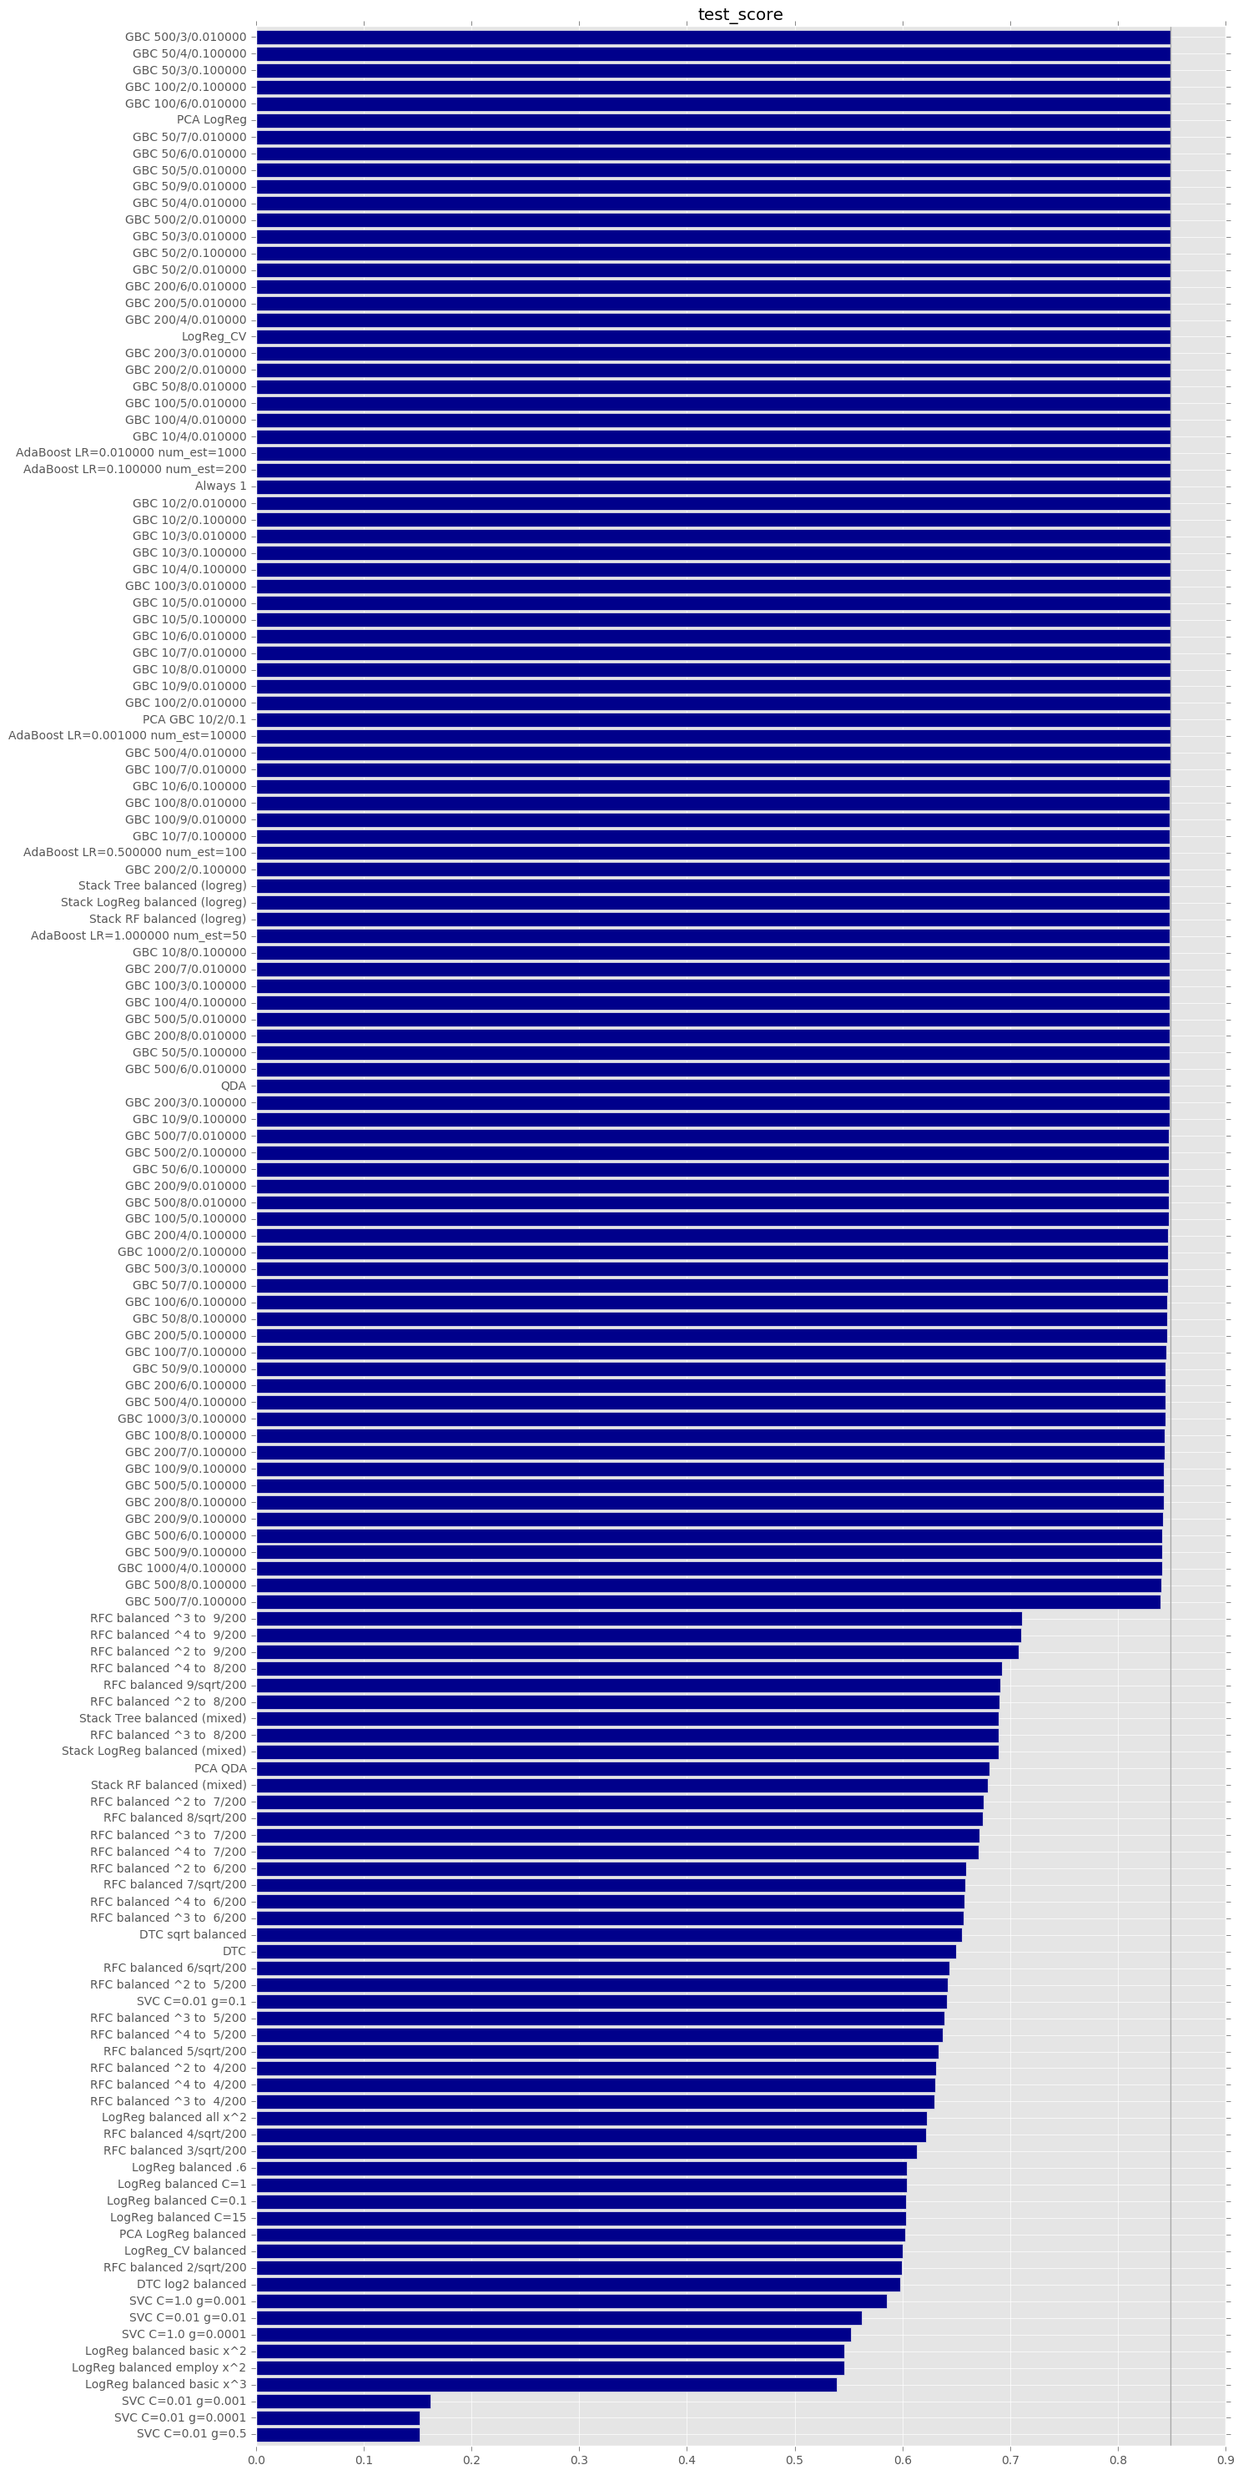
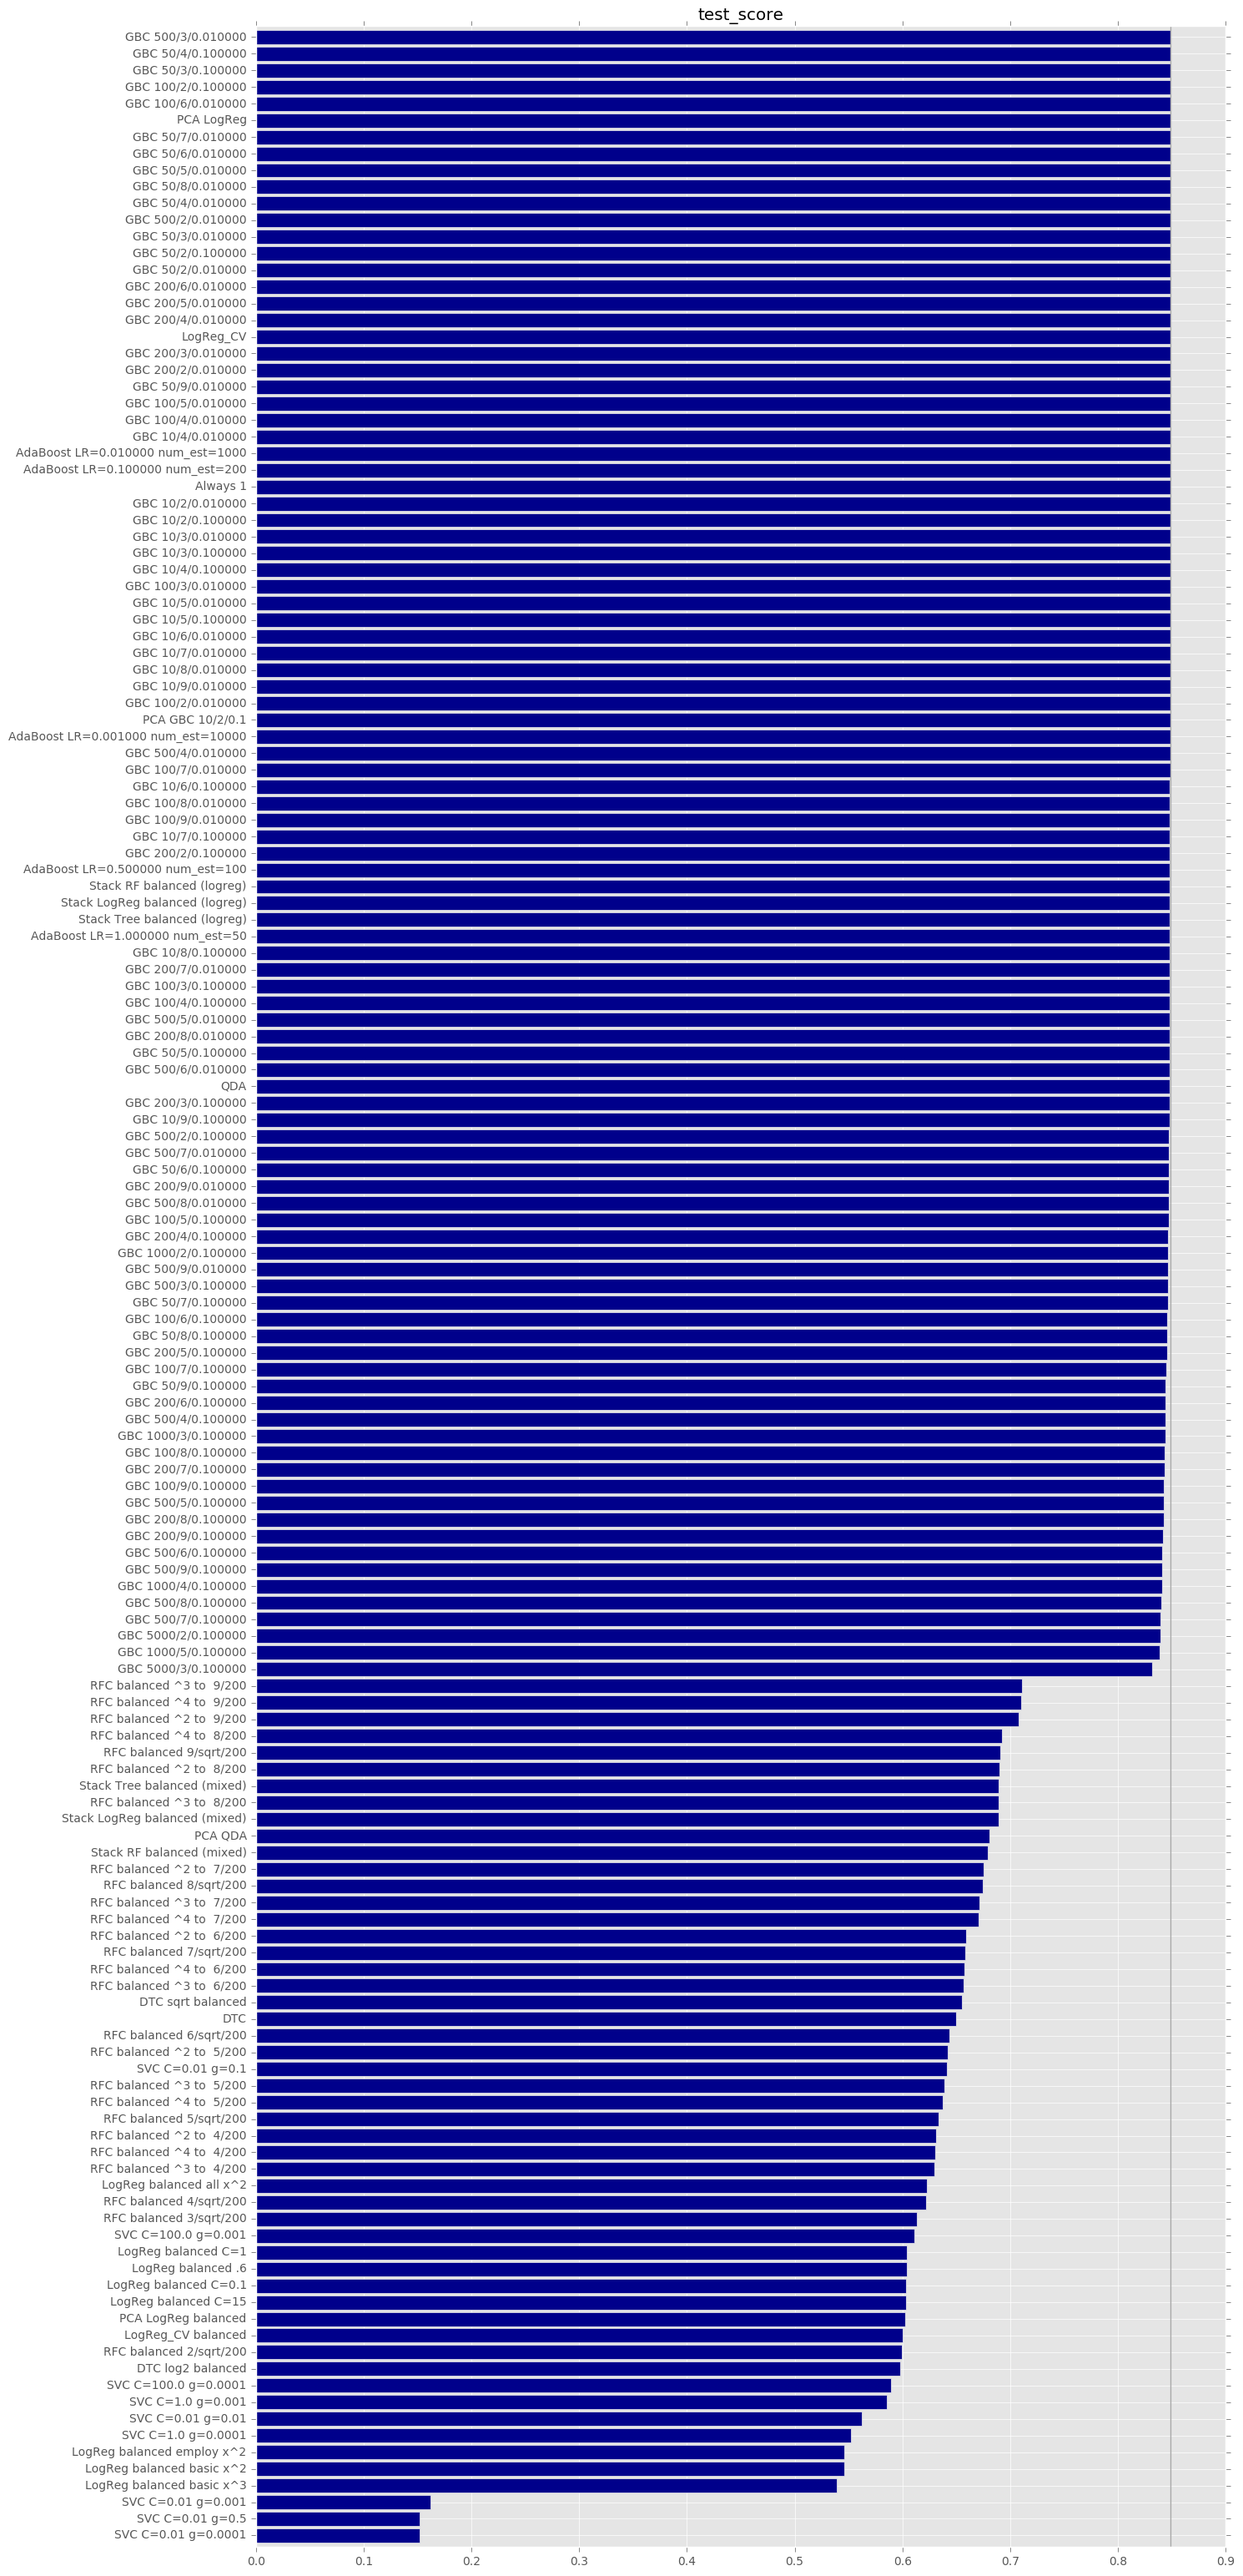
Latest values

Changed region(s): [[0.0309, 0.0, 0.957, 0.9926], [0.9879, 0.9926, 1.0, 1.0]]

diff --git a/docs/model_performance_table.js b/docs/model_performance_table.js
@@ -42,6 +42,7 @@ document.write("<tr><th>GBC 100/9/0.100000</th><td>0.641</td><td>0.914</td><td c
 document.write("<tr><th>GBC 1000/2/0.100000</th><td class='better'>0.660</td><td>0.917</td><td class='better'>0.850</td><td>0.847</td></tr>")
 document.write("<tr><th>GBC 1000/3/0.100000</th><td>0.652</td><td>0.915</td><td class='better'>0.851</td><td>0.844</td></tr>")
 document.write("<tr><th>GBC 1000/4/0.100000</th><td>0.641</td><td>0.913</td><td class='better'>0.852</td><td>0.841</td></tr>")
+document.write("<tr><th>GBC 1000/5/0.100000</th><td>0.633</td><td>0.911</td><td class='better'>0.852</td><td>0.838</td></tr>")
 document.write("<tr><th>GBC 200/2/0.010000</th><td>0.642</td><td>0.918</td><td>0.848</td><td>0.848</td></tr>")
 document.write("<tr><th>GBC 200/2/0.100000</th><td class='better'>0.663</td><td>0.918</td><td class='better'>0.849</td><td>0.848</td></tr>")
 document.write("<tr><th>GBC 200/3/0.010000</th><td>0.648</td><td>0.918</td><td>0.848</td><td>0.848</td></tr>")
@@ -88,7 +89,10 @@ document.write("<tr><th>GBC 500/7/0.010000</th><td>0.656</td><td>0.917</td><td c
 document.write("<tr><th>GBC 500/7/0.100000</th><td>0.630</td><td>0.912</td><td class='better'>0.852</td><td>0.840</td></tr>")
 document.write("<tr><th>GBC 500/8/0.010000</th><td>0.654</td><td>0.917</td><td class='better'>0.849</td><td>0.847</td></tr>")
 document.write("<tr><th>GBC 500/8/0.100000</th><td>0.625</td><td>0.913</td><td class='better'>0.852</td><td>0.841</td></tr>")
+document.write("<tr><th>GBC 500/9/0.010000</th><td>0.651</td><td>0.917</td><td class='better'>0.850</td><td>0.846</td></tr>")
 document.write("<tr><th>GBC 500/9/0.100000</th><td>0.615</td><td>0.913</td><td class='better'>0.851</td><td>0.841</td></tr>")
+document.write("<tr><th>GBC 5000/2/0.100000</th><td>0.636</td><td>0.912</td><td class='better'>0.852</td><td>0.840</td></tr>")
+document.write("<tr><th>GBC 5000/3/0.100000</th><td>0.618</td><td>0.907</td><td class='better'>0.854</td><td>0.832</td></tr>")
 document.write("<tr><th>LogReg balanced .6</th><td>0.656</td><td>0.851</td><td class='better'>0.877</td><td>0.604</td></tr>")
 document.write("<tr><th>LogReg balanced C=0.1</th><td>0.657</td><td>0.720</td><td class='better'>0.899</td><td>0.603</td></tr>")
 document.write("<tr><th>LogReg balanced C=1</th><td>0.656</td><td>0.720</td><td class='better'>0.899</td><td>0.604</td></tr>")
@@ -137,6 +141,8 @@ document.write("<tr><th>SVC C=0.01 g=0.1</th><td>0.635</td><td>0.918</td><td>0.8
 document.write("<tr><th>SVC C=0.01 g=0.5</th><td>0.500</td><td>0.918</td><td>0.848</td><td>0.152</td></tr>")
 document.write("<tr><th>SVC C=1.0 g=0.0001</th><td>0.640</td><td>0.918</td><td>0.848</td><td>0.552</td></tr>")
 document.write("<tr><th>SVC C=1.0 g=0.001</th><td>0.656</td><td>0.918</td><td>0.848</td><td>0.586</td></tr>")
+document.write("<tr><th>SVC C=100.0 g=0.0001</th><td class='better'>0.658</td><td>0.918</td><td class='better'>0.849</td><td>0.589</td></tr>")
+document.write("<tr><th>SVC C=100.0 g=0.001</th><td class='better'>0.664</td><td>0.918</td><td>0.848</td><td>0.611</td></tr>")
 document.write("<tr><th>Stack LogReg balanced (logreg)</th><td>0.502</td><td>0.918</td><td class='better'>0.849</td><td>0.848</td></tr>")
 document.write("<tr><th>Stack LogReg balanced (mixed)</th><td>0.536</td><td>0.805</td><td class='better'>0.860</td><td>0.689</td></tr>")
 document.write("<tr><th>Stack RF balanced (logreg)</th><td>0.502</td><td>0.918</td><td class='better'>0.849</td><td>0.848</td></tr>")

diff --git a/emergency.py b/emergency.py
@@ -349,51 +349,140 @@ for gamma in (10,):
                                          C=C, gamma=gamma),
                              model_group='SVC',
                              model_name="SVC C=" + str(C) + " g=" + str(gamma))
+
+logfile_name='model_performance_2q.txt'
         
+for gamma in (100,):
+    for C in (10.0,):
+        print C, gamma, datetime.datetime.now()
+        eval_model_all_years(lambda: SVC(class_weight='balanced',
+                                         probability=True,
+                                         C=C, gamma=gamma),
+                             model_group='SVC',
+                             model_name="SVC C=" + str(C) + " g=" + str(gamma))
+        
+
+logfile_name='model_performance_2r.txt'
+        
+for gamma in (100,):
+    for C in (100.0,):
+        print C, gamma, datetime.datetime.now()
+        eval_model_all_years(lambda: SVC(class_weight='balanced',
+                                         probability=True,
+                                         C=C, gamma=gamma),
+                             model_group='SVC',
+                             model_name="SVC C=" + str(C) + " g=" + str(gamma))
+        
+logfile_name='model_performance_2s.txt'
+        
+for gamma in (.01,):
+    for C in (100.0,):
+        print C, gamma, datetime.datetime.now()
+        eval_model_all_years(lambda: SVC(class_weight='balanced',
+                                         probability=True,
+                                         C=C, gamma=gamma),
+                             model_group='SVC',
+                             model_name="SVC C=" + str(C) + " g=" + str(gamma))
+
+logfile_name='model_performance_2t.txt'
+        
+for gamma in (.01,):
+    for C in (1.0,):
+        print C, gamma, datetime.datetime.now()
+        eval_model_all_years(lambda: SVC(class_weight='balanced',
+                                         probability=True,
+                                         C=C, gamma=gamma),
+                             model_group='SVC',
+                             model_name="SVC C=" + str(C) + " g=" + str(gamma))
+
+
+execfile('emergency-head.py')
+logfile_name='model_performance_2i.txt'
+        
+gamma=0.5
+C=.01
+print C, gamma, datetime.datetime.now()
+eval_model_all_years(lambda: SVC(class_weight='balanced',
+                                 probability=True,
+                                 C=C, gamma=gamma),
+                     model_group='SVC',
+                     model_name="SVC C=" + str(C) + " g=" + str(gamma))
+
+
+execfile('emergency-head.py')
+logfile_name='model_performance_2i2.txt'
+        
+gamma=0.5
+C=1
+print C, gamma, datetime.datetime.now()
+eval_model_all_years(lambda: SVC(class_weight='balanced',
+                                 probability=True,
+                                 C=C, gamma=gamma),
+                     model_group='SVC',
+                     model_name="SVC C=" + str(C) + " g=" + str(gamma))
+
+
+execfile('emergency-head.py')
+logfile_name='model_performance_2i3.txt'
+        
+gamma=0.5
+C=100
+print C, gamma, datetime.datetime.now()
+eval_model_all_years(lambda: SVC(class_weight='balanced',
+                                 probability=True,
+                                 C=C, gamma=gamma),
+                     model_group='SVC',
+                     model_name="SVC C=" + str(C) + " g=" + str(gamma))
+
 
 # Where are we with SVC?
 '''
-One window: gamma=0.0001, C=10^-2 (10:48-13:09)
-            gamma=0.0001, C=10^0  (13:09-15:36)
-            gamma=0.0001, C=10^+2 (15:36-...)
+h: gamma=0.0001, C=10^-2 (10:48-13:09)
+   gamma=0.0001, C=10^0  (13:09-15:36)
+   gamma=0.0001, C=10^+2 (15:36-...)
 
-One window: gamma=0.5,    C=10^-2 (10:52-13:47)
-                          C=10^0  (13:47-...)
-                          C=10^+2 (...)
+i: gamma=0.5, C=10^-2 (10:52-13:47)
+              C=10^0  (13:47-...)
+              C=10^+2 (...)
 
-One window: gamma=0.001,  C=10^-2 (10:46-13:08)
-            gamma=0.001,  C=10^0  (13:08-15:28)
-            gamma=0.001,  C=10^+2 (15:28-...)
+g: gamma=0.001,  C=10^-2 (10:46-13:08)
+   gamma=0.001,  C=10^0  (13:08-15:28)
+   gamma=0.001,  C=10^+2 (15:28-...)
 Can kill when: gamma=0.01,   C=10^-2 (...)
-            gamma=0.01,   C=10^0  (...)
-            gamma=0.01,   C=10^+2 (...)
-Can kill when: g.=0.1,    C=10^-2 (...)
-            gamma=0.1,    C=10^0  (...)
-            gamma=0.1,    C=10^+2 (...)
 
-One window: gamma=0.1,    C=10^-2 (...)
-            gamma=0.1,    C=10^0  (...)
-            gamma=0.1,    C=10^+2 (...)
+j: gamma=0.1,    C=10^-2 (...)
+   gamma=0.1,    C=10^0  (...)
+   gamma=0.1,    C=10^+2 (...) ==>t
 
-One window: gamma=0.01,    C=10^-2 (13:30-...)
-            gamma=0.01,    C=10^0  (...)
-            gamma=0.01,    C=10^+2 (...)
+k: gamma=0.01,    C=10^-2 (13:30-...)
+   gamma=0.01,    C=10^0  (...)
+   gamma=0.01,    C=10^+2 (...) ==>s
 
-One window: gamma 1/120,  C=1 
-            gamma 1/120,  C=10
-            gamma 1/120,  C=100
+l: GBC (rate=0.1, est=1000,5000; max_depth 2-5)
+
+m: gamma 1/120,  C=1 
+   gamma 1/120,  C=10
+   gamma 1/120,  C=100
 then kill
 
-One window: gamma 1/110,  C=1
-            gamma 1/110,  C=10
-            gamma 1/110,  C=100
+n: gamma 1/110,  C=1
+   gamma 1/110,  C=10
+   gamma 1/110,  C=100
 
-One window: gamma 1/130,  C=1
-            gamma 1/130,  C=10
-            gamma 1/130,  C=100
+o: gamma 1/130,  C=1
+   gamma 1/130,  C=10
+   gamma 1/130,  C=100
 
-One window: gamma 10,  C=1
-            gamma 10,  C=10
-            gamma 10,  C=100
+p: gamma 10,  C=1
+   gamma 10,  C=10
+   gamma 10,  C=100
+
+q: gamma 100, C=10
+
+r: gamma 100, C=100
+
+s: gamma .01, C=100
+
+t: 0.01, 1
 
 '''

diff --git a/emergency-head.py b/emergency-head.py
@@ -1,0 +1,44 @@
+# Turns out we need to rerun everything at the last minute
+# Running it from the ipynb is not stable, is single-threaded, and is slower then running directly from the command line.
+# (Once the initial block has been copied-and-pasted into the Python interpreter,
+# you can run any of the CORE blocks -- so they can run in parallel just fine.)
+# Begin with all the necessary imports
+
+import itertools as it
+import matplotlib
+import matplotlib.cm as cmx
+import matplotlib.colors as colors
+import matplotlib.pyplot as plt
+import numpy as np
+import os.path as op
+import pandas as pd
+import re
+import scipy as sp
+import sklearn.preprocessing as Preprocessing
+import datetime
+
+from itertools import combinations
+from sklearn.cross_validation import KFold as kfold
+from sklearn.decomposition import TruncatedSVD as tSVD
+from sklearn.discriminant_analysis import LinearDiscriminantAnalysis as LDA
+from sklearn.discriminant_analysis import QuadraticDiscriminantAnalysis as QDA
+from sklearn.dummy import DummyClassifier
+from sklearn.ensemble import GradientBoostingClassifier as GBC
+from sklearn.ensemble import RandomForestClassifier as RFC
+from sklearn.feature_extraction.text import CountVectorizer
+from sklearn.feature_extraction.text import TfidfVectorizer
+from sklearn.linear_model import LinearRegression as Lin_Reg
+from sklearn.linear_model import LogisticRegression as Log_Reg
+from sklearn.metrics import confusion_matrix
+from sklearn.metrics import f1_score
+from sklearn.neighbors import KNeighborsClassifier as KNN
+from sklearn.svm import SVC
+from sklearn.tree import DecisionTreeClassifier as DTC
+from scipy.io import mmread
+
+plt.style.use('ggplot') 
+
+skip_matrix = True  # save memory
+execfile('data_loading.py')
+execfile('modelling_framework.py')
+show_plots = False  # only save to disk, don't show onscreen, because we're running in batch mode

diff --git a/model_performance.py b/model_performance.py
@@ -3,29 +3,18 @@
 
 import json
 import matplotlib.pyplot as plt
+import os
 import pandas as pd
 
 plt.style.use('ggplot')
 
 model_performance = {}
-for filename in ('model_performance_2.txt',
-                 'model_performance_2a.txt',
-                 'model_performance_2b.txt',
-                 'model_performance_2c.txt',
-                 'model_performance_2d.txt',
-                 'model_performance_2e.txt',
-                 'model_performance_2f.txt',
-                 'model_performance_2g.txt',
-                 'model_performance_2h.txt',
-#                 'model_performance_2i.txt',
-                 'model_performance_2j.txt',
-                 'model_performance_2k.txt',
-                 'model_performance_2l.txt',
-             ):
-    print "loading", filename
-    for line in open(filename, 'r'):
-        d = json.loads(line)
-        model_performance[d['name']] = d['perf']
+for filename in (os.listdir('.')):
+    if filename.startswith('model_performance_2') and filename.endswith('.txt'):
+        print "loading", filename
+        for line in open(filename, 'r'):
+            d = json.loads(line)
+            model_performance[d['name']] = d['perf']
             
 
 baseline_models = {
